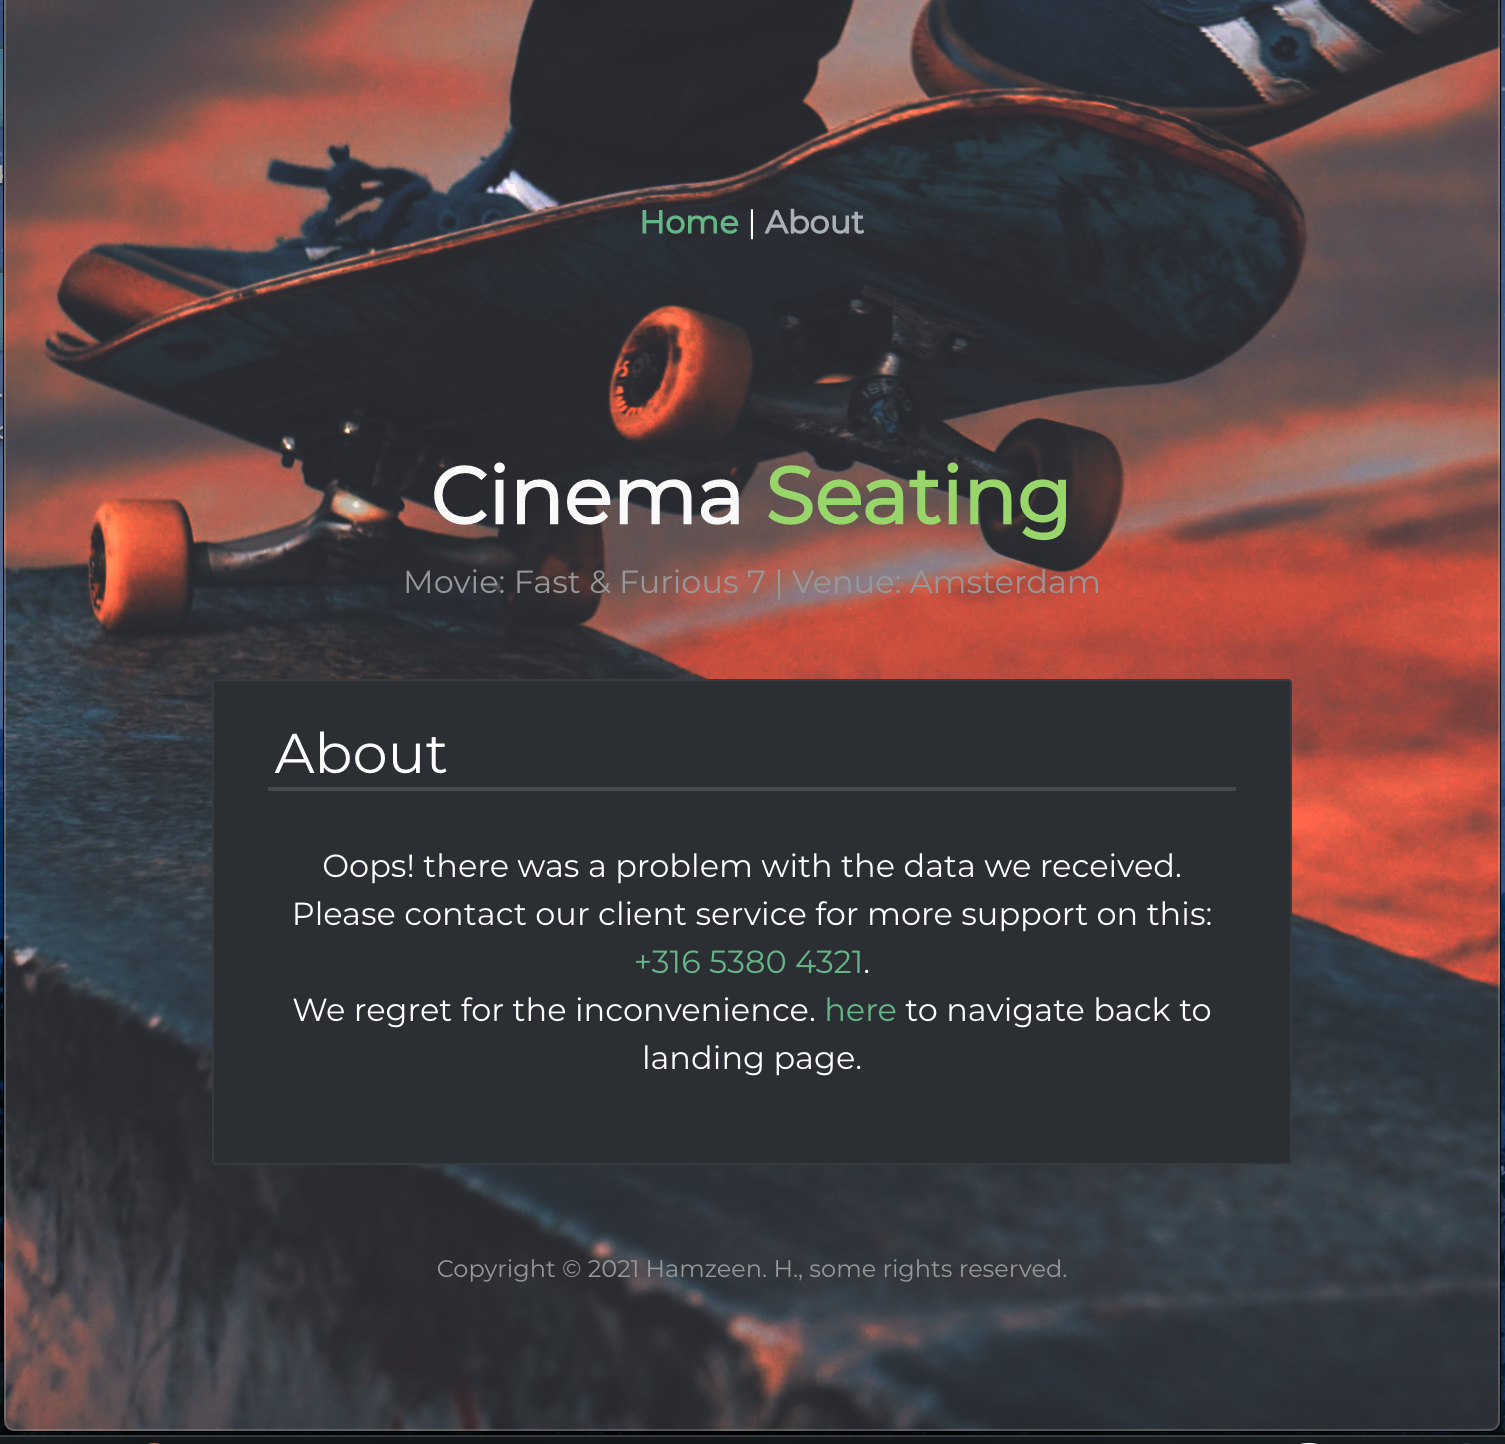
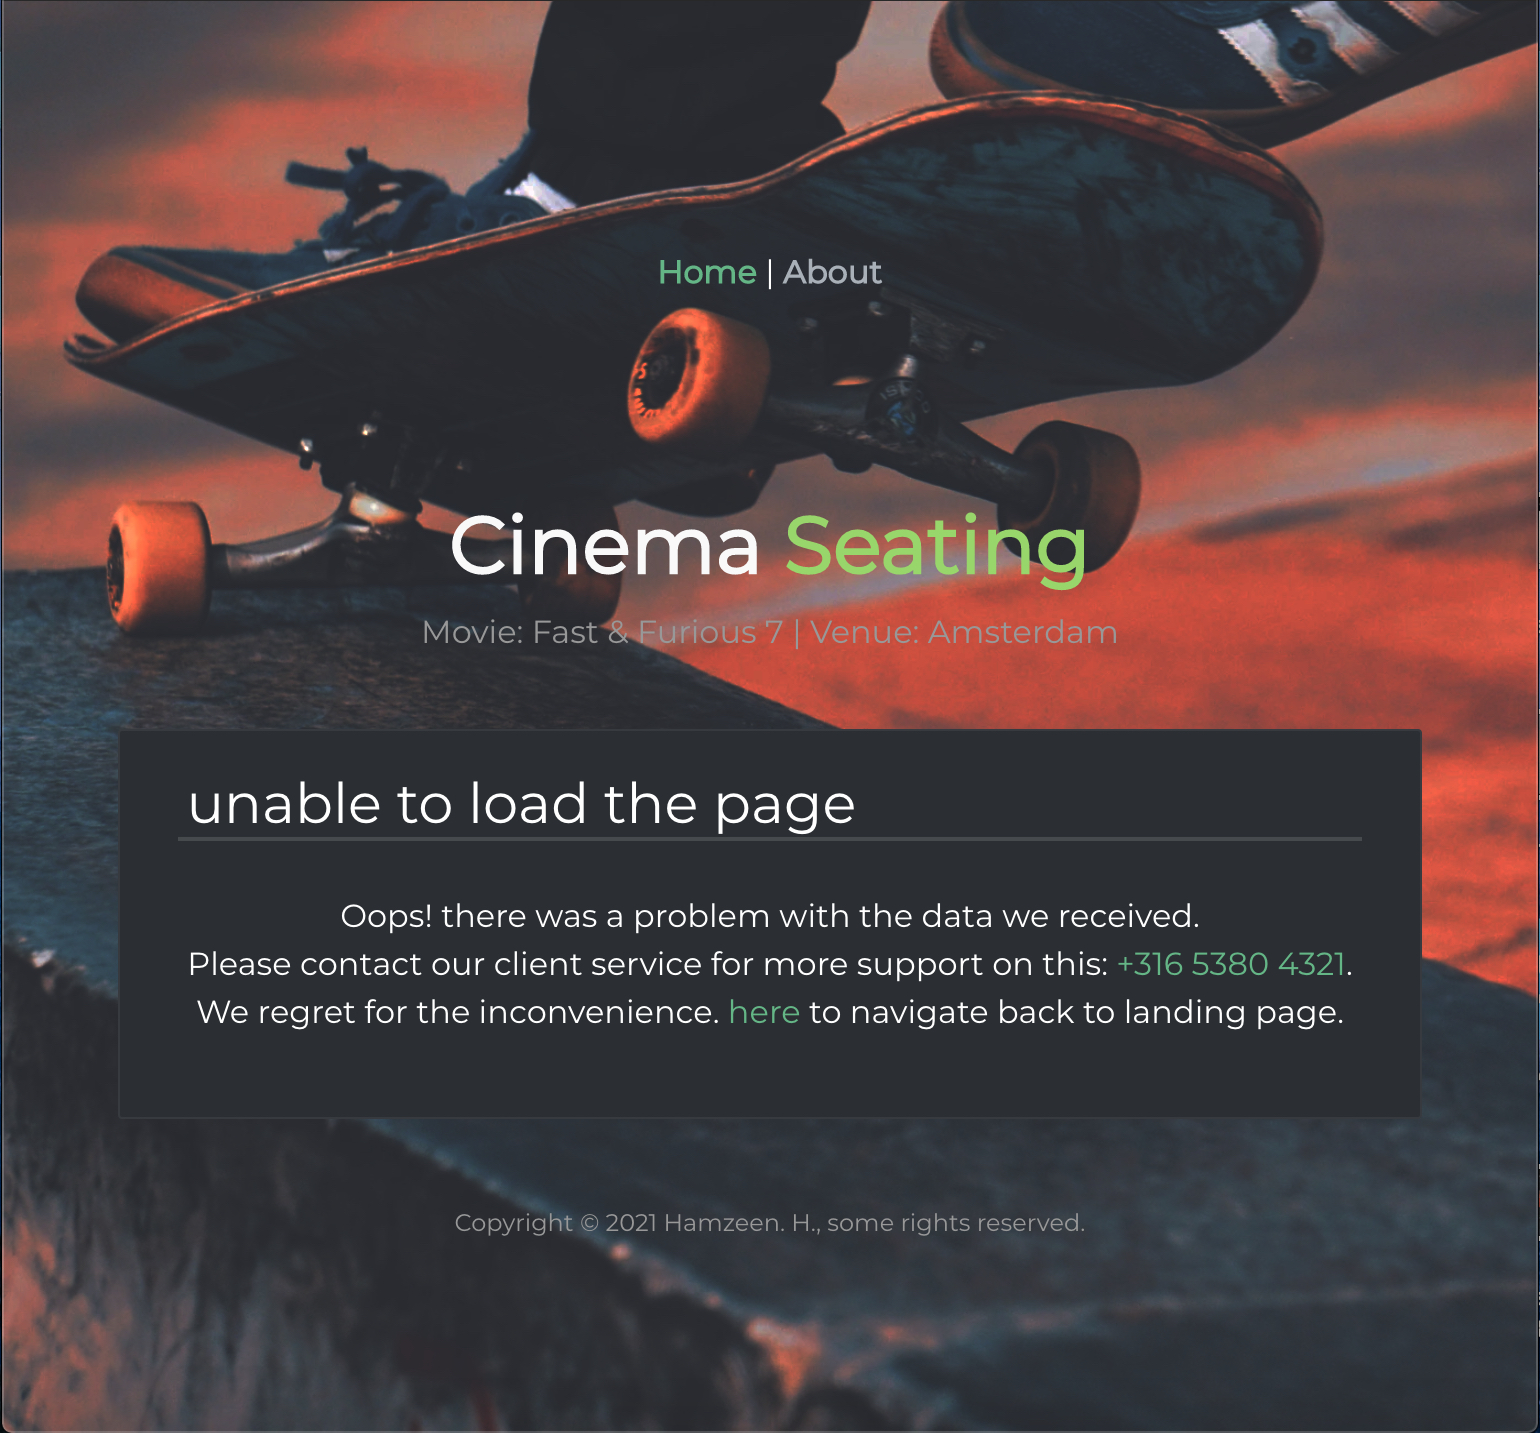
fixed typo on error card title

diff --git a/src/components/HelloWorld.vue b/src/components/HelloWorld.vue
@@ -6,7 +6,7 @@
 
       <div class="container" v-if="!hasData">
 
-        <h3 class="card-title">About</h3><hr>
+        <h3 class="card-title">unable to load the page</h3><hr>
 
         <p class="notification">
           Oops! there was a problem with the data we received. <br/>
